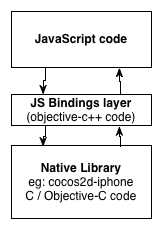
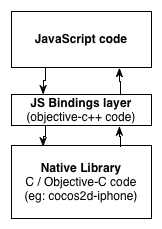
More documentation
Former-commit-id: 0297ce564a40aae42279c46089b4b71df567a247

Changed region(s): [[0.1543, 0.7642, 0.8642, 0.8865]]

diff --git a/external/jsbindings/README.md b/external/jsbindings/README.md
@@ -9,7 +9,7 @@ JSB allows calling native code from JS and vice-versa.
 ![JSB layer](docs/jsb_intro.png)
 
 The JS code is interpreted by [SpiderMonkey](https://developer.mozilla.org/en-US/docs/SpiderMonkey), Mozilla's JS virtual machine (VM).
-It uses the latest stable version of SpiderMonkey (as of this writing it is v14.0.1). The JS VM is extended to support custom types, custom structures and Objective-C objects.
+It uses the latest stable version of SpiderMonkey (as of this writing it is v14.0.1). The JS VM is extended by JSB to support custom types, custom structures and Objective-C objects.
 
 JSB has a flexible set of rules that could be used to select the classes, methods, functions and structs to parse or ignore; which methods are callbacks; renaming rules, among some of its features. And to ease the creation of these rules, it supports regular expressions.
 
@@ -19,33 +19,48 @@ JSB could be used in complex libraries like [cocos2d](http://www.cocos2d-iphone.
 
 JSB comes with a python script called `generate_js_bindings.py` that generates the glue code. It needs a configuration file that contains the parsing rules and the [BridgeSupport](http://developer.apple.com/library/mac/#documentation/Darwin/Reference/ManPages/man5/BridgeSupport.5.html) files.
 
-BridgeSupport files are generated by a script called [`gen_bridge_metada`](http://developer.apple.com/library/mac/#documentation/Darwin/Reference/ManPages/man1/gen_bridge_metadata.1.html#//apple_ref/doc/man/1/gen_bridge_metadata) that is part of OS X, and generates and xml files with Class information like method names, types used for the arguments, return values, etc. `gen_bridge_metada`, internally, uses clang.
+BridgeSupport files are generated by a script called [`gen_bridge_metada`](http://developer.apple.com/library/mac/#documentation/Darwin/Reference/ManPages/man1/gen_bridge_metadata.1.html#//apple_ref/doc/man/1/gen_bridge_metadata) that is part of OS X, and generates xml files with information like class names, method names, arguments, return values, internals of the structs, constants, etc. 
 
-## How to update the current bindings
+`gen_bridge_metada`, internally, uses [`clang`](http://clang.llvm.org/) to parse the native code. The output is very reliable, but unfortunately, it is not complete: class hierarchy, protocols and properties data is missing. That's why JSB comes with another python script, called `generate_js_complement.py`, that generates the missing information.
 
-    $ cd cocos2d-iphone/externals/jsbindings/src/auto
-    $ ../../generate_js_bindings.py -c ../../configs/cocos2d/cocos2d_jsb.ini 
-    $ ../../generate_js_bindings.py -c ../../configs/chipmunk/chipmunk_jsb.ini 
-    $ ../../generate_js_bindings.py -c ../../configs/CocosBuilderReader/CocosBuilderReader_jsb.ini 
-    $ ../../generate_js_bindings.py -c ../../configs/CocosDenshion/CocosDenshion_jsb.ini 
+Once we have the configuration file setup, we can run the `generate_js_bindings.py` script to generate the glue code.
+
+To summarize, the structure of a JSB configuration file is:
+
+- Parsing rules (optional): renaming rules, classes to ignore/parse, etc...
+- BridgeSupport files (required): Class, methods, functions, structs information
+- Complement files (required for Objective-C projects): Hierarchy, protocol and properties information
+
+!["glue" code generation](docs/jsb_files.png)
 
 
 
-## Understanding the bindings
+## Internals of the JS bindings ("glue" code)
 
-The Javascript Bidnings (JSB) generates the code needed to execute "native code" from Javascript. And by "native code" it could be any Objective-C (or C) library.
+The JS bindings code allows to call JS code from native and vice-versa. It fowards native callbacks to JS. It supports "subclassing" native objects in JS. Let's see them in detail.
 
-### Functions
+### Calling native code from JS
 
-As an example, the following code will execute 10 times the the native function "ccpAdd()":
+The following code will execute 10 times the the native C function `ccpAdd()`:
 
 	var p = cc.p(0,0);
 	var q = cc.p(1,1);
 	for( var i=0; i < 10; i++)
-		p = cc.pAdd(p, q);   // cc.pAdd is a "wrapped" function, and it will call the cocos2d cc.pAdd() function
+		p = cc.pAdd(p, q);   // cc.pAdd is a "wrapped" function, and it will call the cocos2d ccpAdd() C function
 
 
-JSB will convert the Javascript object "p" into a valid CGPoint struct.
+Let's take a look at the declaration of `ccpAdd`:
+
+	CGPoint ccpAdd(const CGPoint v1, const CGPoint v2);
+
+So when `cc.pAdd` is executed, it will call the "glue" code function code `JSPROXY_ccpAdd`. `JSPROXY_ccpAdd` is responsible for doing:
+
+- convert the arguments from JS to native
+- call `ccpAdd()`
+- convert the return value from native to JS
+- and report in case there is a problem converting the arguments or return value.
+
+`cc.pAdd` receives to arguments: `p` and `q` which are JS objects. The proxy function `JSPROXY_ccpAdd` will be called. It will convert the 2 arguments into `CGPoint` structs, and call `ccpAdd`. The return value will be a `CGPoint`. `JSPROXY_ccpAdd` will convert the `CGPoint` into a valid JS Object, and return the newly created object into JS.
 
 
 ### Classes
@@ -77,4 +92,13 @@ can be merged into just one Javascript call. Example:
 	scene.addChild( sprite );        // calls  addChild:
 	scene.addChild( sprite, 10);     // calls  addChild:z:
 	scene.addChild( sprite, 10, -1); // calls  addChild:z:tag: 
+
+
+## Generating the bindigns
+
+    $ cd cocos2d-iphone/externals/jsbindings/src/auto
+    $ ../../generate_js_bindings.py -c ../../configs/cocos2d/cocos2d_jsb.ini 
+    $ ../../generate_js_bindings.py -c ../../configs/chipmunk/chipmunk_jsb.ini 
+    $ ../../generate_js_bindings.py -c ../../configs/CocosBuilderReader/CocosBuilderReader_jsb.ini 
+    $ ../../generate_js_bindings.py -c ../../configs/CocosDenshion/CocosDenshion_jsb.ini 
 
